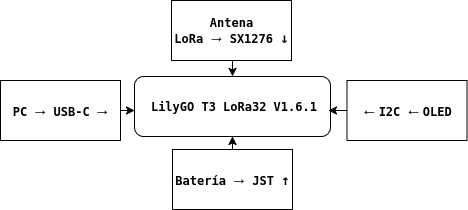
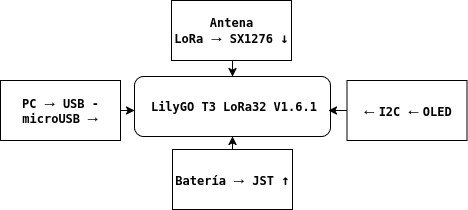
Semana8: Actualizando README con datos de programación

Changed region(s): [[0.0299, 0.4571, 0.2393, 0.6], [0.4786, 0.3143, 0.5085, 0.3714]]

diff --git a/README.md b/README.md
@@ -91,14 +91,14 @@ El iGate se configurará mediante programación directa en la placa LilyGO T3 Lo
 ## Requisitos adicionales
 
 - **Fuente de alimentación**:  
-  - USB-C desde la PC o cargador de 5 V  
+  - USB-Micro USB desde la PC o cargador de 5 V  
   - (Opcional) Batería Li-Po de 3.7 V (ej. 1000–2000 mAh) para autonomía  
 
 - **Antena LoRa**:  
   - Conector IPEX incluido  
   - **Importante:** siempre conectar la antena antes de transmitir para evitar dañar el módulo  
 
-- **Cable USB-C**:  
+- **Cable USB-Micho USB**:  
   - Para programación y alimentación desde la computadora  
 
 - **(Opcional) Regulador o power bank**:  
@@ -147,6 +147,57 @@ Paso 3. Configurar el iGate en VS Code y cargar su placa vía USB:
 </p>
 
 ## 6. Avance de Código de Programación
+
+### 6.1 1. Preparación del entorno y programación
+
+1. Instalar Arduino IDE
+
+Para Linux (Ubuntu) seguir los siguientes pasos:
+- Descargar la última versión:
+
+```bash
+mkdir -p ~/Documents/arduino
+cd ~/Documents/arduino
+wget https://downloads.arduino.cc/arduino-ide/arduino-ide_2.3.4_Linux_64bit.AppImage
+```
+2. Dar permisos de ejecución
+```bash
+chmod +x arduino-ide_2.3.4_Linux_64bit.AppImage
+```
+3. Instalar dependencias necesarias (Recomendado)
+```bash
+sudo apt update
+ssudo apt install libfuse2 libcanberra-gtk-module libcanberra-gtk3-module
+```
+4. Ejecutar el IDE
+```bash
+./arduino-ide_2.3.4_Linux_64bit.AppImage
+```
+5. Si hay problemas de SandBox, ejecutar:
+```bash
+./arduino-ide_2.3.4_Linux_64bit.AppImage --no-sandbox
+```
+6. Configuración del Arduino IDE para ESP32
+ - 6.1. Abrir Arduino IDE:
+ - 6.2. Ir a Archivo → Preferencias.
+ - 6.3. En Gestor de URLs adicionales de tarjetas, agregar (paquetes necesarios para el uso de ESP32):
+ 
+```bash
+https://raw.githubusercontent.com/espressif/arduino-esp32/gh-pages/package_esp32_index.json
+```
+- 6.4 Clic en OK.
+- 6.5 Instalar soporte ESP32:
+    - 6.5.1 Ir a Herramientas → Placa → Gestor de placas…
+    - Buscar ESP32 y hacer clic en Instalar en la versión estable. (Espressif Systems)
+    - 6.5.2 Instalar librerías necesarias: En Arduino IDE: Programa → Incluir Librería → Gestionar Librerías…
+    - Buscar e instalar: LoRa (para el módulo SX1276(Sandeep Mistry)), WiFi (ya viene incluida con ESP32),TinyGPS++ (si quieres simular GPS (Mikal Hart))
+    
+7. Conectar la LilyGO
+- Conecta la placa vía USB-C.
+- Ir a Herramientas → Puerto y seleccionar el puerto correspondiente.
+- Ir a Herramientas → Placa → ESP32 Arduino → LilyGO T3 LoRa32 (o genérica ESP32 si no aparece).
+
+Configura tus credenciales WiFi en el código (SSID y Password).
 
 ## Programación
 
